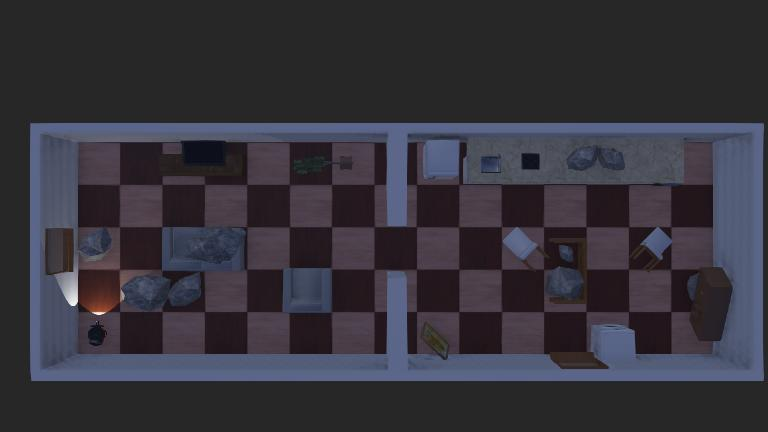
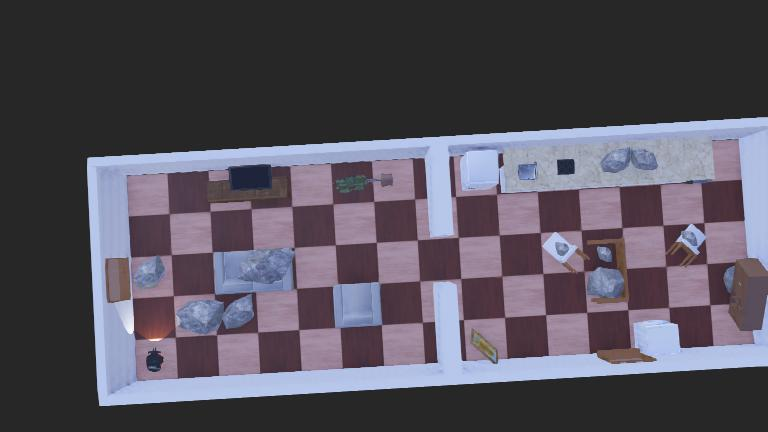
dd

diff --git a/Progetto/controllers/rescue_controller/Movement.py b/Progetto/controllers/rescue_controller/Movement.py
@@ -328,9 +328,9 @@ class Movement:
     def position_recalculation(self):
         
         pos_est=[]#posizione stimata
-        rb_list=[self.robot_pose[:2]]#lista delle poioni visitate
+        rb_list=[self.robot_pose[:2]]#lista delle posizioni visitate
         count=2#penultima cella di rb_list
-        while(self.PF.isLocalizated(0.5)):#il robot esce dal while quando avrà visitato 5 celle diverse
+        while(self.PF.isLocalizated(0.5)):#il robot esce dal while quando le particelle si saranno concentrate in un punto
             
             
             sd=self.lidar_permutation(self.direction())
@@ -340,40 +340,45 @@ class Movement:
                 count=2
                 self.rotate("North")
                 self.move(1)
+                #viene applicata l'azione al filtro particellare
                 pos_est=self.PF.particle_filter([-1,0],self.lidar_permutation(self.direction()),self.direction())
-                rb_list.append(self.robot_pose[:2])
+                rb_list.append(self.robot_pose[:2])#aggiungiamo la cella visitata alla lista
                 
-            elif(sd[2]>1 and ([self.robot_pose[0]+0,self.robot_pose[1]+1] not in rb_list)):
+            elif(sd[2]>1 and ([self.robot_pose[0],self.robot_pose[1]+1] not in rb_list)):
                
                 count=2
                 self.rotate("East")
                 self.move(1)
+                #viene applicata l'azione al filtro particellare
                 pos_est=self.PF.particle_filter([0,1],self.lidar_permutation(self.direction()),self.direction())
-                rb_list.append(self.robot_pose[:2])
+                rb_list.append(self.robot_pose[:2])#aggiungiamo la cella visitata alla lista
                 
             elif(sd[3]>1 and ([self.robot_pose[0],self.robot_pose[1]+(-1)] not in rb_list)):
                 
                 count=2
                 self.rotate("West")
                 self.move(1)
+                #viene applicata l'azione al filtro particellare
                 pos_est=self.PF.particle_filter([0,-1],self.lidar_permutation(self.direction()),self.direction())
-                rb_list.append(self.robot_pose[:2])
+                rb_list.append(self.robot_pose[:2])#aggiungiamo la cella visitata alla lista
                 
             elif(sd[1]>1  and ([self.robot_pose[0]+1,self.robot_pose[1]] not in rb_list)):
                 
                 count=2
                 self.rotate("South")
                 self.move(1)
+                #viene applicata l'azione al filtro particellare
                 pos_est=self.PF.particle_filter([1,0],self.lidar_permutation(self.direction()),self.direction())
-                rb_list.append(self.robot_pose[:2])
+                rb_list.append(self.robot_pose[:2])#aggiungiamo la cella visitata alla lista
             
             else:
                 #se le celle adiacenti sono già state visitate ci muoviamo verso la cella precedente
                 self.obj_dir(rb_list[-count][0],rb_list[-count][1])#direzionamento verso la l'ultima cella visitata
                 azione=[rb_list[-count][0]-self.robot_pose[0],rb_list[-count][1]-self.robot_pose[1]]#calcolo azione di movimento
                 self.move(1)
+                #viene applicata l'azione al filtro particellare
                 pos_est=self.PF.particle_filter(azione,self.lidar_permutation(self.direction()),self.direction())
-                count+=1
+                count+=1#incresemtiamo il contatore per accedere alle celle precedenti
                 
            
            
@@ -382,64 +387,107 @@ class Movement:
     def agg_filtro(self):
           print("Rilevata posizione non corretta, effettuo una localizzazione")
           
-          # ridistribuzione particelle
+          # ridistribuzione uniforme delle particelle rispetto alla mappa
           self.PF.redistribution()
           
-          # movimento di almeno 6 celle al fine di ottenere la posizione corretta
+          # movimento al fine di ottenere la posizione corretta
           pos_est=self.position_recalculation() 
           self.robot_pose[:2]=pos_est
           self.robot_pose[2]=self.direction()
-                  
+    
+    def rock_falling(self):
+        obj=[]
+        sd_p=self.lidar_permutation(self.direction())
+        sd_state=self.PF.evaluate_mis(sd_p)
+        map_state=self.PF.real_state(self.robot_pose[:2])
+        pos_errate = [i for i, (elem1, elem2) in enumerate(zip(sd_state, map_state)) if elem1 != elem2]
+        if(len(pos_errate)>1):#più posizioni non conguenti => Traslazione
+            return []
+        else:
+            x_robot=self.robot_pose[0]
+            y_robot=self.robot_pose[1]
+            if(pos_errate[0]==0):
+                obj=[x_robot-1,y_robot]
+            elif(pos_errate[0]==1):
+                obj=[x_robot+1,y_robot]
+            elif(pos_errate[0]==2):
+                obj=[x_robot,y_robot+1]
+            elif(pos_errate[0]==3):
+                obj=[x_robot,y_robot-1] 
+              
+            for i in range(2):
+                if(sd_state.index(0)==0):
+                    self.rotate("North")
+                    self.move(1)
+                elif(sd_state.index(0)==1):
+                    self.rotate("South")
+                    self.move(1)
+                elif(sd_state.index(0)==2):
+                    self.rotate("East")
+                    self.move(1)
+                elif(sd_state.index(0)==3):
+                    self.rotate("West")
+                    self.move(1)
+                    
+                sd_p=self.lidar_permutation(self.direction())
+                sd_state=self.PF.evaluate_mis(sd_p)
+                map_state=self.PF.real_state(self.robot_pose[:2])
+                pos_errate = [i for i, (elem1, elem2) in enumerate(zip(sd_state, map_state)) if elem1 != elem2]
+                if(len(pos_errate)>0):#più posizioni non conguenti => Traslazione
+                    return [] 
+                #inserire robot list
+
+            
+            return obj
+        
+        
+              
                         
     def follow_path_filtered(self,path,map):
     
         layer_reattivo=True
-        self.PF.map=map
+        self.PF.map=map#passiamo la mappa al filtro particellare
       
         for x,y in path[1:]:
         
           sd_p=self.lidar_permutation(self.direction())
           
-          if(self.robot_pose[:2] not in self.PF.position_estimate(sd_p,self.direction())):
-                  
-                  self.agg_filtro()
-                  return False  
+          if(self.robot_pose[:2] not in self.PF.position_estimate(sd_p,self.direction())):#viene rilevata la posizione non corretta
+                  obj=self.rock_falling()
+                  if(obj==[]):
+                     self.agg_filtro()#viene applicato il filtro particellare per la rilocalizzazione
+                     return False, []
+                  else:
+                      print("rilevata roccia caduta")
+                      print(obj)
+                      return False, obj 
       
           if((x-self.robot_pose[0])==0 and y>self.robot_pose[1] ):
               if(self.robot_pose[2]!="East"):
                   self.rotate("East")
-              if(self.layer_reattivo(1)==False):
- 
-                  self.agg_filtro()
-                  return False  
+              
                      
               self.move(1)
              
           elif((x-self.robot_pose[0])==0 and y<self.robot_pose[1] ):
               if(self.robot_pose[2]!="West"):
                   self.rotate("West")
-              if(self.layer_reattivo(1)==False):
-                  self.agg_filtro()
-                  return False  
+              
               self.move(1)
              
              
           elif((y-self.robot_pose[1])==0 and x<self.robot_pose[0] ):
               if(self.robot_pose[2]!="North"):
                   self.rotate("North")
-              if(self.layer_reattivo(1)==False):
-                  self.agg_filtro()
-                  return False     
+                 
               self.move(1)
            
               
           elif((y-self.robot_pose[1])==0 and x>self.robot_pose[0] ):
               if(self.robot_pose[2]!="South"):
                   self.rotate("South")
-              if(self.layer_reattivo(1)==False):
-                  self.agg_filtro()
-                  return False   
+             
               self.move(1)
              
               
-        return True
+        return True,[]

diff --git a/Progetto/controllers/rescue_controller/Collect.py b/Progetto/controllers/rescue_controller/Collect.py
@@ -111,29 +111,55 @@ class Collect:
             
             
             path=self.movement.find_path_obj(self.map,obj[0],obj[1])#calcolo percorso verso l'oggetto
-            fp=self.movement.follow_path_filtered(path,self.map)#movimento lungo il percorso
+            if(path==[]):
+                    
+                    print("oggetto non raggiungibile")
+                    continue
+            fp,rock=self.movement.follow_path_filtered(path,self.map)#movimento lungo il percorso
+            if(rock!=[]):
+                self.map[rock[0],rock[1]]=4
+                print("mappa aggiornata")
+                print(self.map)
             while(fp==False ):#posizione persa e rilocalizzata
 
                 txt="Ricalcolo il percorso"
                 print(txt)
                 self.tts.text_to_speech(txt)
                 path=self.movement.find_path_obj(self.map,obj[0],obj[1])#ricalcolo percorso
-                fp=self.movement.follow_path_filtered(path,self.map)
-                          
-            self.movement.obj_dir(obj[0],obj[1])#rotazione verso l'oggetto
-            ogg, _=self.cam.recognition()#riconoscimento
-            self.aggancia()
-            self.map[obj[0],obj[1]]=0#aggiornamento mappa
-            print(self.map)
-            
-            path_reverse=self.movement.find_path_obj(self.map,self.pos_start[0],self.pos_start[1])#calcolo percorso di consegnaq
-            fp=self.movement.follow_path_filtered(path_reverse,self.map)#movimento lungo il percorso
-            while(fp==False ):#posizione persa e rilocalizzata
-
-                txt="Ricalcolo il percorso"
-                print(txt)
-                self.tts.text_to_speech(txt)
-                path=self.movement.find_path_obj(self.map,obj[0],obj[1])#ricalcolo percorso
-                fp=self.movement.follow_path_filtered(path,self.map)
+                print(path)
+                if(path==[]):
+                    
+                    print("oggetto non raggiungibile")
+                    break
+                fp,rock=self.movement.follow_path_filtered(path,self.map)
                 
-            self.rilascia(ogg)
+                if(rock!=[]):
+                    self.map[rock[0],rock[1]]=4
+                    print("mappa aggiornata")
+                    print(self.map)
+                
+            if(path!=[]):             
+                self.movement.obj_dir(obj[0],obj[1])#rotazione verso l'oggetto
+                ogg, _=self.cam.recognition()#riconoscimento
+                self.aggancia()
+                self.map[obj[0],obj[1]]=0#aggiornamento mappa
+                print(self.map)
+                
+                path_reverse=self.movement.find_path_obj(self.map,self.pos_start[0],self.pos_start[1])#calcolo percorso di consegnaq
+                fp,rock=self.movement.follow_path_filtered(path_reverse,self.map)#movimento lungo il percorso
+                if(rock!=[]):
+                    self.map[rock[0],rock[1]]=4
+                    print("mappa aggiornata")
+                    print(self.map)
+                while(fp==False ):#posizione persa e rilocalizzata
+    
+                    txt="Ricalcolo il percorso"
+                    print(txt)
+                    self.tts.text_to_speech(txt)
+                    path=self.movement.find_path_obj(self.map,obj[0],obj[1])#ricalcolo percorso
+                    fp,rock=self.movement.follow_path_filtered(path,self.map)
+                    if(rock!=[]):
+                        self.map[rock[0],rock[1]]=4
+                        print("mappa aggiornata")
+                        print(self.map)
+                self.rilascia(ogg)

diff --git a/Progetto/controllers/Salvataggio/Salvataggio.py b/Progetto/controllers/Salvataggio/Salvataggio.py
@@ -6,6 +6,15 @@ robot = Supervisor()
 
 
 timestep = 32
+def aggiungi_rock(traslation,robot,name):
+    root=robot.getRoot()
+    chil=root.getField('children')
+    chil.importMFNodeFromString(-1,'DEF '+name+' Rock {}')
+    rock=robot.getFromDef(name)
+    traslationField=rock.getField('translation')
+    traslationField.setSFVec3f(traslation)
+    scaleField=rock.getField('scale')
+    scaleField.setSFFloat(6.0)
 
 def aggiungi_umano(traslation,rotation,robot,name):
     root=robot.getRoot()
@@ -28,7 +37,7 @@ def aggiungi_box(traslation,color_rec,robot,name,nameproto):
     traslationField=box.getField('translation')
     traslationField.setSFVec3f(traslation)
 
-def recupera_oggetti(objs) :
+def recupera_oggetti(objs,rock_falling) :
     
     for obj in objs:
         
@@ -37,6 +46,11 @@ def recupera_oggetti(objs) :
 
             obj.remove()
             objs.remove(obj)
+            if(rock_falling):
+
+                aggiungi_rock([3,3,0.4],robot,'rock_falling')
+
+                rock_falling=False
              
 def salvataggio_umano(rescuer):    
     customDataField=rescuer.getField('customData')
@@ -57,21 +71,21 @@ rescuer = robot.getFromDef('rescuer')
 customDataField=rescuer.getField('customData')
 customData=customDataField.getSFString()
 customDataField.setSFString(" ")
-
+"""
 aggiungi_umano([4,0,0.13],[0,1,0,-1.57],robot,'umano1')
 aggiungi_umano([12,1.19,0.18],[-0.577,0.577,-0.577,-2.09],robot,'umano2')
-
+"""
 aggiungi_box([1,2,0.1],[1,1,0],robot,'box_gioielli',' Box_gioielli {}')
 aggiungi_box([1,4,0.1],[0,1,0.5],robot,'box_soldi1',' Box_soldi {}')
 aggiungi_box([11,0,0.1],[0,1,0],robot,'box_foto',' Box_foto {}')
 aggiungi_box([14,2,0.1],[0,1,0.5],robot,'box_soldi2',' Box_soldi {}')
 
 objs=[robot.getFromDef('box_gioielli'),robot.getFromDef('box_soldi1'),robot.getFromDef('box_soldi2'),robot.getFromDef('box_foto')]
-   
+
+rock_falling=True  
 while robot.step(timestep) != -1:
 
     salvataggio_umano(rescuer)    
-    recupera_oggetti(objs)
-
+    recupera_oggetti(objs,rock_falling)
 
     
